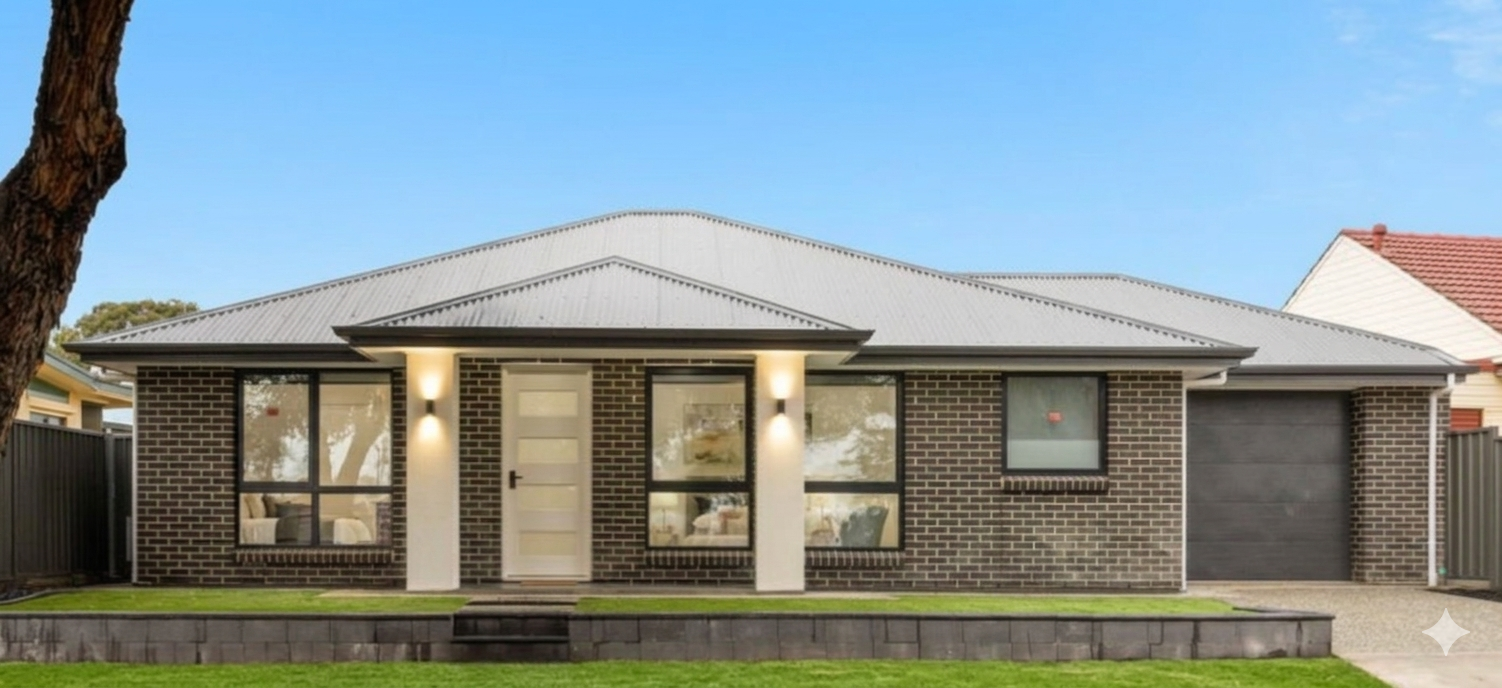
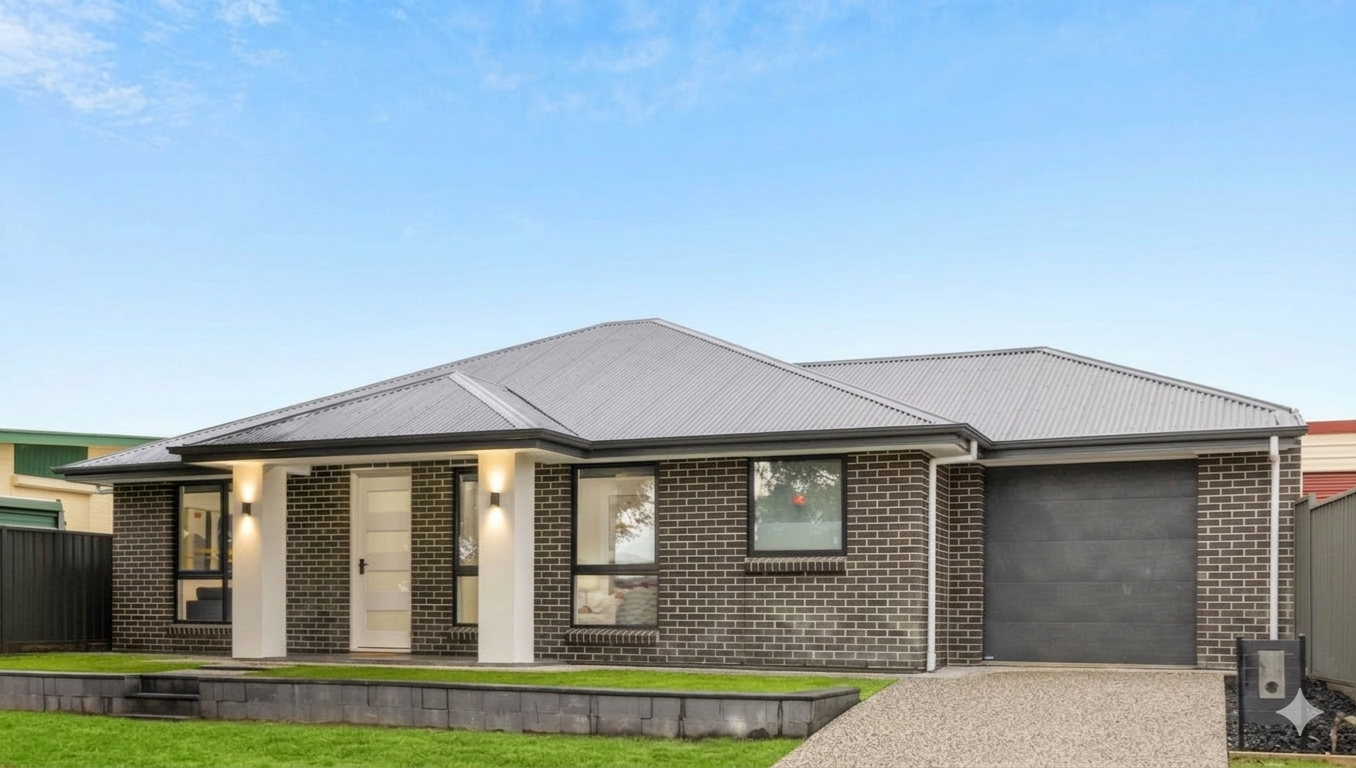
updated changes

diff --git a/frontend/src/components/sections/Projects.jsx b/frontend/src/components/sections/Projects.jsx
@@ -37,13 +37,13 @@ export default function Projects({ preview = false, hideHeader = false }) {
   const groupedProjects = [
     {
       id: 1,
-      name: 'HUGH',
+      name: 'Hugh',
       image: all[0]?.image,
       photos: [all[1], all[2], all[3], all[4], all[5], all[6], all[7], all[8], all[9], all[10], all[11], all[12]].filter(Boolean),
     },
     {
       id: 2,
-      name: 'LORAL',
+      name: 'Loral',
       image: all[13]?.image,
       photos: [all[14], all[15], all[16], all[17], all[18], all[19], all[20], all[21], all[22], all[23]].filter(Boolean),
     },
@@ -61,7 +61,7 @@ export default function Projects({ preview = false, hideHeader = false }) {
     },
      {
       id: 5,
-      name: 'macdonnell',
+      name: 'Macdonnell',
       image: all[48]?.image,
       photos: [all[49], all[50], all[51], all[52], all[53], all[54], all[55], all[56], all[57], all[58]].filter(Boolean),
     },